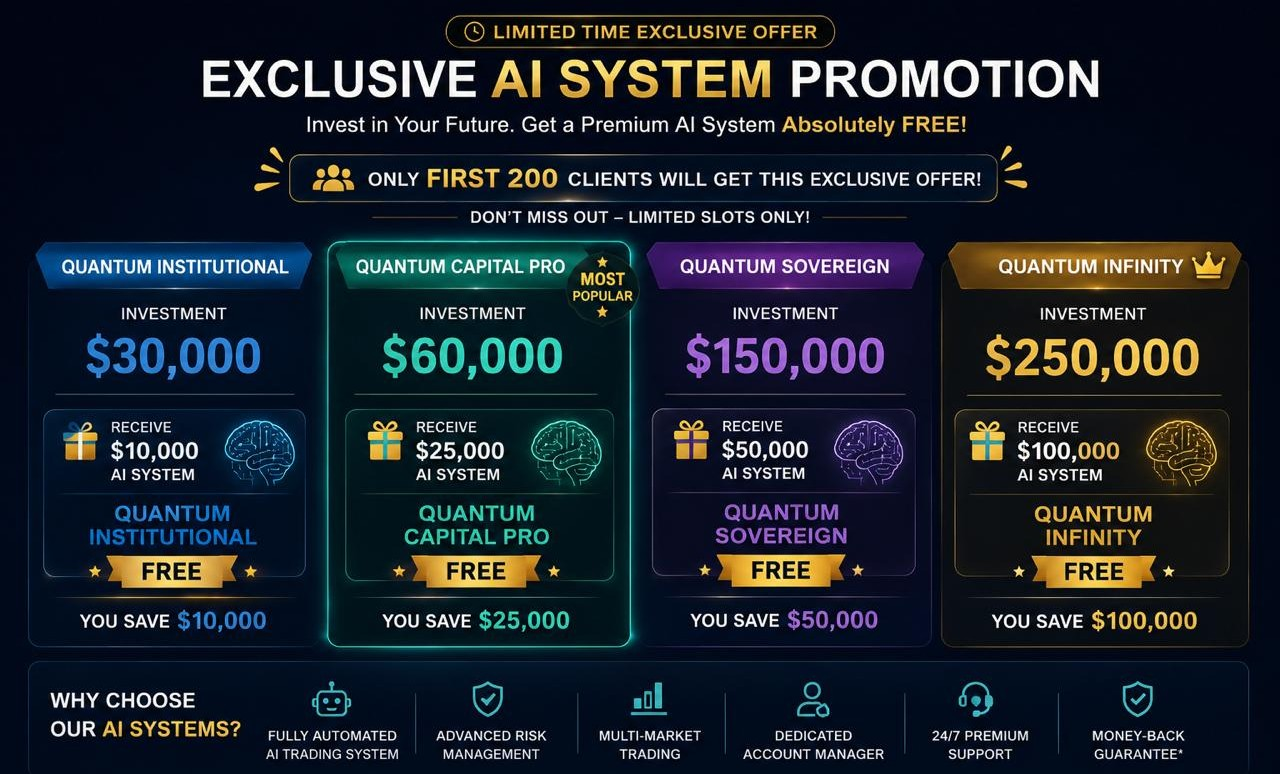
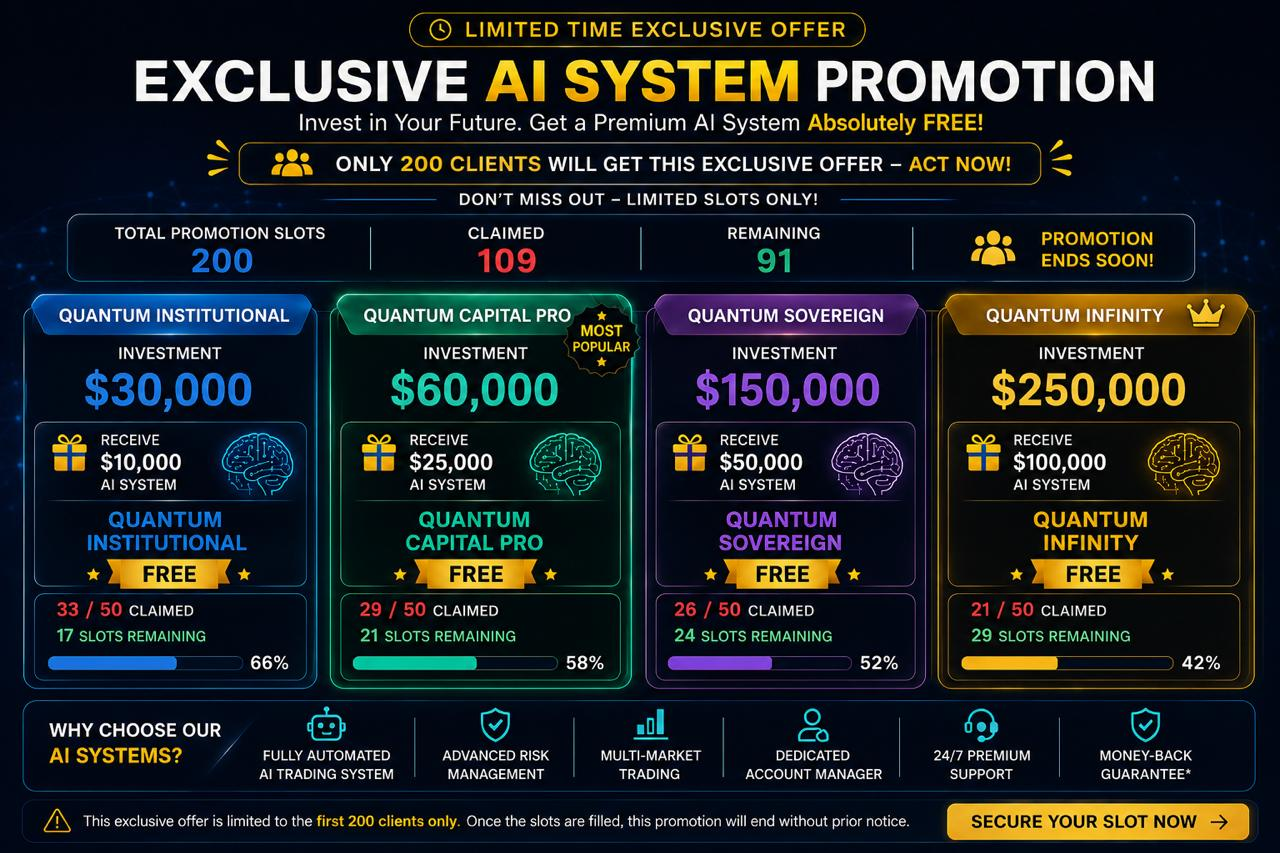
Quantum Promo

diff --git a/src/pages/QuantumAI.jsx b/src/pages/QuantumAI.jsx
@@ -268,7 +268,7 @@ function QuantumAI() {
   ];
 
   const TOTAL_PROMOTIONAL_SLOTS = 200;
-  const TAKEN_SLOTS = 69;
+  const TAKEN_SLOTS = 109;
 
   const remainingSlots = Math.max(TOTAL_PROMOTIONAL_SLOTS - TAKEN_SLOTS, 0);
   const claimedPercentage = Math.min(Math.round((TAKEN_SLOTS / TOTAL_PROMOTIONAL_SLOTS) * 100), 100);
